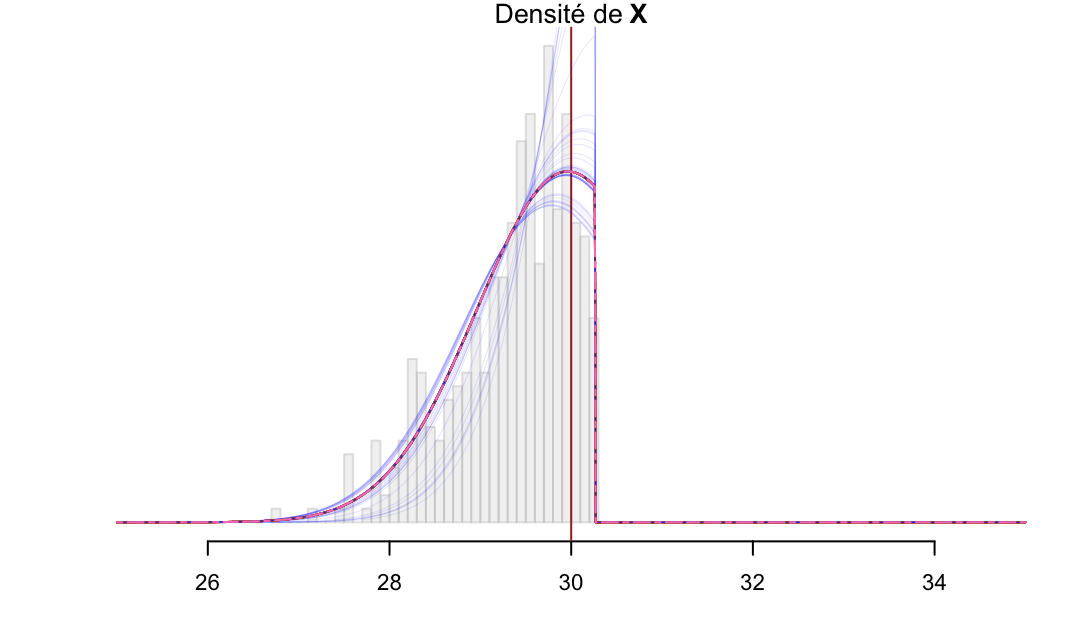
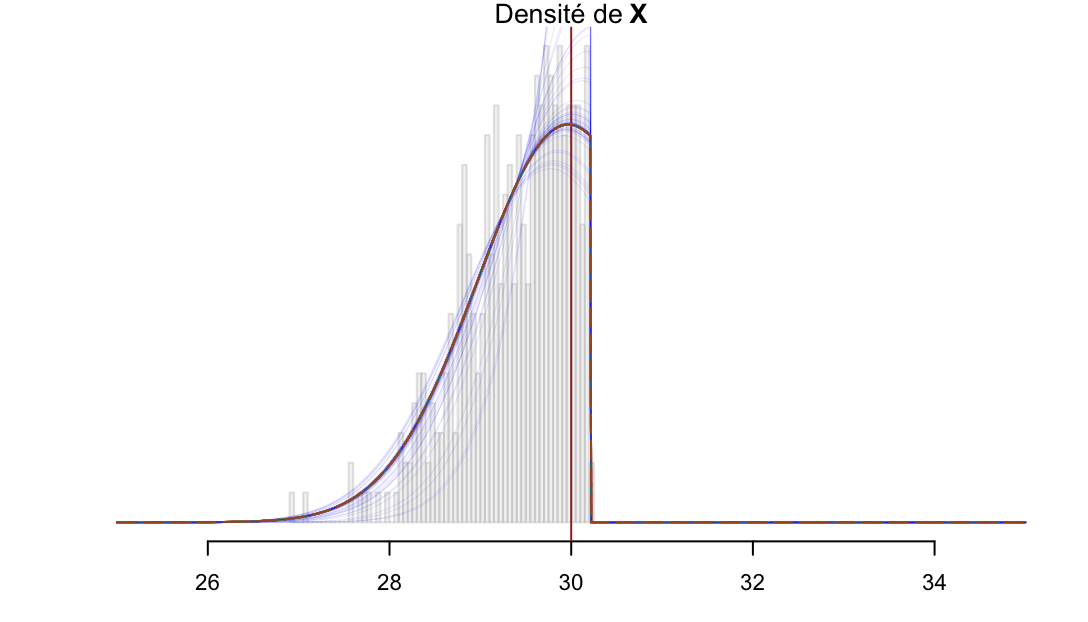
update

Changed region(s): [[0.125, 0.0611, 0.9375, 0.8553]]

diff --git a/static/uploads/M2_stats_de_la_SD_2024.html b/static/uploads/M2_stats_de_la_SD_2024.html
@@ -877,15 +877,15 @@ y = x + \epsilon
 <p>On répète un nombre <span class="math inline">\(M=\)</span> 20 d’imputations du jeu de données intitiales. En voici 3 versions.</p>
 
 <img data-src="M2_stats_de_la_SD_2024_files/figure-revealjs/unnamed-chunk-20-1.png" class="quarto-figure quarto-figure-center r-stretch" width="518"><p>La moyenne empirique des <span class="math inline">\(M=\)</span> 20 estimations pour chacun des 3 coefficients: <span class="math display">\[
-\hat{\alpha}_N\approx -0.031\pm 0.054, \
-\hat{\beta}_N\approx 0.984\pm 0.052,\
-\hat{\sigma}^2_N\approx 0.22
+\hat{\alpha}_N\approx 0.032\pm 0.038, \
+\hat{\beta}_N\approx 1.011\pm 0.038,\
+\hat{\sigma}^2_N\approx 0.113
 \]</span></p>
 </section>
 <section id="le-boxplot-toujours-aussi-utile" class="slide level2">
 <h2>Le boxplot, toujours aussi utile</h2>
 
-<img data-src="M2_stats_de_la_SD_2024_files/figure-revealjs/unnamed-chunk-21-1.png" class="quarto-figure quarto-figure-center r-stretch" width="864"><p>Les points théoriques sont en dehors des distributions… A-t-on oublié quelque chose ?</p>
+<img data-src="M2_stats_de_la_SD_2024_files/figure-revealjs/unnamed-chunk-21-1.png" class="quarto-figure quarto-figure-center r-stretch" width="691"><p>Les points théoriques sont en dehors des distributions… A-t-on oublié quelque chose ?</p>
 </section>
 <section id="limputation-multiple---proper-1" class="slide level2">
 <h2>L’imputation multiple - <em>proper</em> (1)</h2>
@@ -915,27 +915,27 @@ y = x + \epsilon
 <p>On obtient des estimations :</p>
 <ul>
 <li><p>Via bootstrap : <span class="math display">\[
-\hat{\alpha}_\text{Boot}\approx -0.017\pm 0.058, \
-\hat{\beta}_\text{Boot}\approx 0.992\pm 0.056, \
-\hat{\sigma}^2_\text{Boot}\approx 0.249
+\hat{\alpha}_\text{Boot}\approx 0.014\pm 0.041, \
+\hat{\beta}_\text{Boot}\approx 1.005\pm 0.041, \
+\hat{\sigma}^2_\text{Boot}\approx 0.133
 \]</span></p></li>
 <li><p>Via la postérieure/bayésienne : <span class="math display">\[
-\hat{\alpha}_\text{Bayes}\approx -0.038\pm 0.064, \
-\hat{\beta}_\text{Bayes}\approx 0.982\pm 0.061,\
-\hat{\sigma}^2_\text{Bayes}\approx 0.312
+\hat{\alpha}_\text{Bayes}\approx 0.031\pm 0.046, \
+\hat{\beta}_\text{Bayes}\approx 1.006\pm 0.046,\
+\hat{\sigma}^2_\text{Bayes}\approx 0.169
 \]</span></p></li>
 </ul>
 <p>Pour rappel, dans les cas impropres : <span class="math display">\[
 \begin{array}{lccc}
-\text{Moyenne}&amp;\hat{\alpha}_0\approx -0.227\pm 0.077 &amp;
-\hat{\beta}_0\approx 0.545\pm 0.073 &amp;
-\hat{\sigma}^2_0\approx 0.449\\
-\text{Régression linéaire}&amp;\hat{\alpha}_l\approx -0.031\pm 0.05 &amp;
-\hat{\beta}_l\approx 0.981\pm 0.048 &amp;
-\hat{\sigma}^2_l\approx 0.192\\
-\text{Régression stochastique}&amp;\hat{\alpha}_N\approx -0.031\pm 0.054 &amp;
-\hat{\beta}_N\approx 0.984\pm 0.052 &amp;
-\hat{\sigma}^2_N\approx 0.22
+\text{Moyenne}&amp;\hat{\alpha}_0\approx -0.011\pm 0.068 &amp;
+\hat{\beta}_0\approx 0.524\pm 0.068 &amp;
+\hat{\sigma}^2_0\approx 0.371\\
+\text{Régression linéaire}&amp;\hat{\alpha}_l\approx 0.03\pm 0.036 &amp;
+\hat{\beta}_l\approx 1.013\pm 0.036 &amp;
+\hat{\sigma}^2_l\approx 0.104\\
+\text{Régression stochastique}&amp;\hat{\alpha}_N\approx 0.032\pm 0.038 &amp;
+\hat{\beta}_N\approx 1.011\pm 0.038 &amp;
+\hat{\sigma}^2_N\approx 0.113
 \end{array}
 \]</span> </p>
 </section>
@@ -1212,16 +1212,16 @@ Q(\theta|\theta_k,X) = \mathbb{E}_{\theta_k}\left[\ell_c(\theta|X,Z)\right] = -\
 </section>
 <section id="un-petit-exemple-6" class="slide level2">
 <h2>Un petit exemple (6)</h2>
-<p>Application numérique avec <span class="math inline">\(\theta=30\)</span>, <span class="math inline">\(n_1=400\)</span>, <span class="math inline">\(n_2=250\)</span> et <span class="math inline">\(a=30.27\)</span> :</p>
+<p>Application numérique avec <span class="math inline">\(\theta=30\)</span>, <span class="math inline">\(n_1=400\)</span>, <span class="math inline">\(n_2=250\)</span> et <span class="math inline">\(a=30.21\)</span> :</p>
 
 <img data-src="M2_stats_de_la_SD_2024_files/figure-revealjs/unnamed-chunk-24-1.png" class="quarto-figure quarto-figure-center r-stretch" width="544"></section>
 <section id="algorithme-em-retour-à-notre-exemple" class="slide level2">
 <h2>Algorithme <strong>EM</strong>, retour à notre exemple</h2>
 
 <img data-src="M2_stats_de_la_SD_2024_files/figure-revealjs/emResult-1.png" class="quarto-figure quarto-figure-center r-stretch" width="388"><p>Les valeurs estimées sont alors <span class="math display">\[
-\hat{\alpha}_\text{EM}\approx -0.036\pm 0.043, \
-\hat{\beta}_\text{EM}\approx 0.969\pm 0.043,\
-\hat{\sigma}^2_\text{EM}\approx 0.15
+\hat{\alpha}_\text{EM}\approx -0.015\pm 0.037, \
+\hat{\beta}_\text{EM}\approx 1.069\pm 0.037,\
+\hat{\sigma}^2_\text{EM}\approx 0.129
 \]</span></p>
 </section></section>
 <section>
@@ -1326,7 +1326,7 @@ Q(\theta|\theta_k,X) = (x_2+x_3)\log(1-\theta) + (&lt;\!\!z_2\!\!&gt;_k+x_4)\log
 <section id="exemple-des-cellules-4" class="slide level2">
 <h2>Exemple des cellules (4)</h2>
 <p><span class="math display">\[
-(x_1,x_2,x_3,x_4) = (115,35,40,10)\quad \text{et} \quad \theta=0.3
+(x_1,x_2,x_3,x_4) = (115,30,30,15)\quad \text{et} \quad \theta=0.3
 \]</span></p>
 <p><br>
 </p>
@@ -1383,7 +1383,7 @@ Z_i&amp;\sim\mathcal{N}(0,\sigma^2),
 <p>L’espérance conditionelle de son logarithme, pour un paramètre <span class="math inline">\(\theta_0=(\beta_0,\sigma_0^2)\)</span> :</p>
 <p><span class="math display">\[
 \begin{array}{c c c}
-Q(\theta|\theta_0,X,Y) &amp;=&amp; -n\log \sigma - \dfrac{\sum_{i}\mathbb{E}_{\theta_0}[Z_i^2]}{2\sigma^2}+\sum_{i,j}y_{i,j}(\beta x_{i,j}+\mathbb{E}_{\theta_0}[Z_i])\\
+Q(\theta|\theta_0,X,Y) &amp;=&amp; -n\log \sigma - \frac{1}{2\sigma^2}\sum_{i}\mathbb{E}_{\theta_0}[Z_i^2]+\sum_{i,j}y_{i,j}(\beta x_{i,j}+\mathbb{E}_{\theta_0}[Z_i])\\
 &amp;&amp;- \sum_{i,j}\mathbb{E}_{\theta_0}[\log(1+\exp(\beta x_{i,j}+Z_i))].
 \end{array}
 \]</span></p>
@@ -1397,7 +1397,7 @@ Q(\theta|\theta_0,X,Y) &amp;=&amp; -n\log \sigma - \dfrac{\sum_{i}\mathbb{E}_{\t
 <h2>Modèle logit à effet aléatoire (3)</h2>
 <p>D’après la forme de la vraisemblance complétée, on peut déduire la forme de la loi conditionelle des <span class="math inline">\(Z_i\)</span> : <span class="math display">\[
 [Z_i|(x_{i,j},y_{i,j})_j,\beta,\sigma^2] \propto
-\frac{\text{e}^{-\dfrac{\left(Z_i-\sigma^2\sum_{j} y_{i,j}\right)^2}{2\sigma^2}}}{\prod_{j} \left(1+\exp\left(\beta x_{i,j}+Z_i\right)\right)}.
+\frac{\text{e}^{-\frac{1}{2\sigma^2}\left(Z_i-\sigma^2\sum_{j} y_{i,j}\right)^2}}{\prod_{j} \left(1+\exp\left(\beta x_{i,j}+Z_i\right)\right)}.
 \]</span></p>
 <p>En <em>oubliant</em> le dénominateur on pourrait croire que <span class="math display">\[
 [Z_i|(x_{i,j},y_{i,j})_j,\beta,\sigma^2]\sim\mathcal{N}(\sigma^2\sum_{j} y_{i,j},\sigma^2),
@@ -1508,29 +1508,29 @@ p(Z,\theta|X) \approx q_Z(Z|X)q_\theta(\theta|X)=q(Z,\theta|X).
 <section id="au-total-1" class="slide level2">
 <h2>Au total</h2>
 <p><span class="math display">\[
-\hat{\alpha}_\text{EM}\approx -0.036\pm 0.043, \
-\hat{\beta}_\text{EM}\approx 0.969\pm 0.043,\
-\hat{\sigma}^2_\text{EM}\approx 0.15
+\hat{\alpha}_\text{EM}\approx -0.015\pm 0.037, \
+\hat{\beta}_\text{EM}\approx 1.069\pm 0.037,\
+\hat{\sigma}^2_\text{EM}\approx 0.129
 \]</span> <span class="math display">\[
-\hat{\alpha}_\text{Boot}\approx -0.017\pm 0.058, \
-\hat{\beta}_\text{Boot}\approx 0.992\pm 0.056, \
-\hat{\sigma}^2_\text{Boot}\approx 0.249
+\hat{\alpha}_\text{Boot}\approx 0.014\pm 0.041, \
+\hat{\beta}_\text{Boot}\approx 1.005\pm 0.041, \
+\hat{\sigma}^2_\text{Boot}\approx 0.133
 \]</span> <span class="math display">\[
-\hat{\alpha}_\text{Bayes}\approx -0.038\pm 0.064, \
-\hat{\beta}_\text{Bayes}\approx 0.982\pm 0.061,\
-\hat{\sigma}^2_\text{Bayes}\approx 0.312
+\hat{\alpha}_\text{Bayes}\approx 0.031\pm 0.046, \
+\hat{\beta}_\text{Bayes}\approx 1.006\pm 0.046,\
+\hat{\sigma}^2_\text{Bayes}\approx 0.169
 \]</span> <span class="math display">\[
-\hat{\alpha}_\text{0}\approx -0.227\pm 0.077, \
-\hat{\beta}_\text{0}\approx 0.545\pm 0.073, \
-\hat{\sigma}^2_\text{0}\approx 0.449
+\hat{\alpha}_\text{0}\approx -0.011\pm 0.068, \
+\hat{\beta}_\text{0}\approx 0.524\pm 0.068, \
+\hat{\sigma}^2_\text{0}\approx 0.371
 \]</span> <span class="math display">\[
-\hat{\alpha}_l\approx -0.031\pm 0.05, \
-\hat{\beta}_l\approx 0.981\pm 0.048, \
-\hat{\sigma}^2_l\approx 0.192
+\hat{\alpha}_l\approx 0.03\pm 0.036, \
+\hat{\beta}_l\approx 1.013\pm 0.036, \
+\hat{\sigma}^2_l\approx 0.104
 \]</span> <span class="math display">\[
-\hat{\alpha}_\text{N}\approx -0.031\pm 0.054, \
-\hat{\beta}_\text{N}\approx 0.984\pm 0.052, \
-\hat{\sigma}^2_\text{N}\approx 0.22
+\hat{\alpha}_\text{N}\approx 0.032\pm 0.038, \
+\hat{\beta}_\text{N}\approx 1.011\pm 0.038, \
+\hat{\sigma}^2_\text{N}\approx 0.113
 \]</span></p>
 </section>
 <section id="une-petite-acp-les-individus" class="slide level2">
